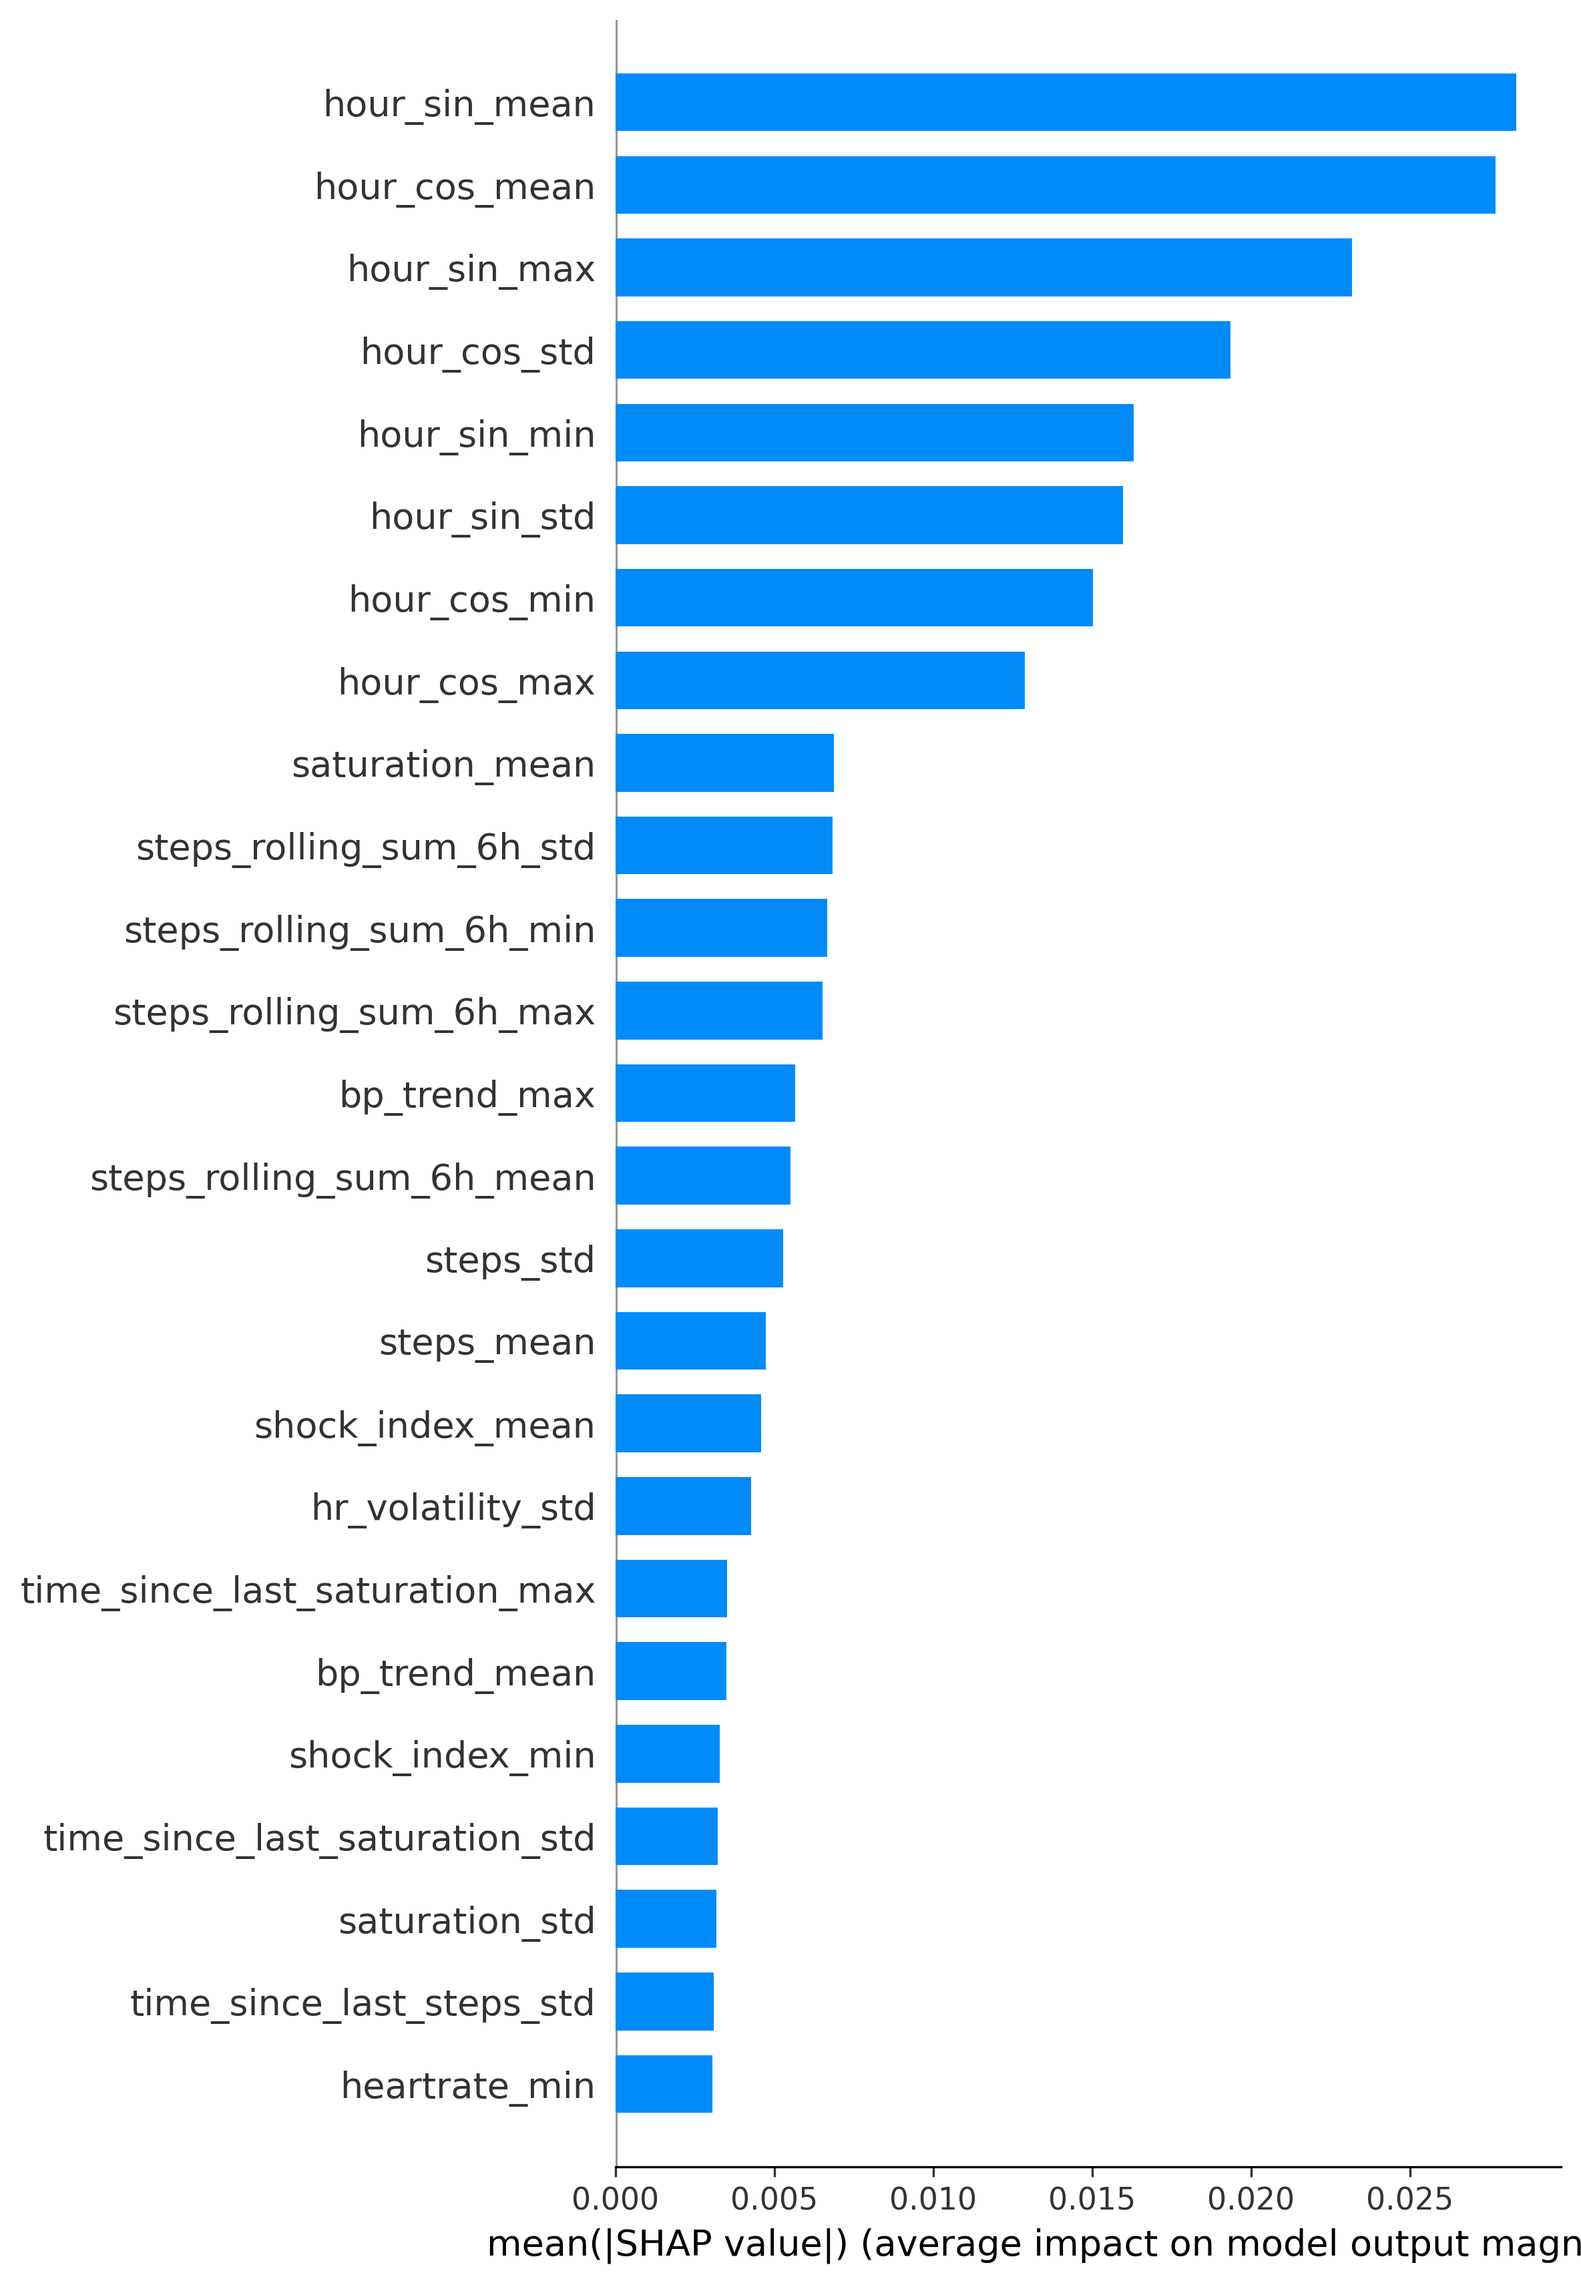
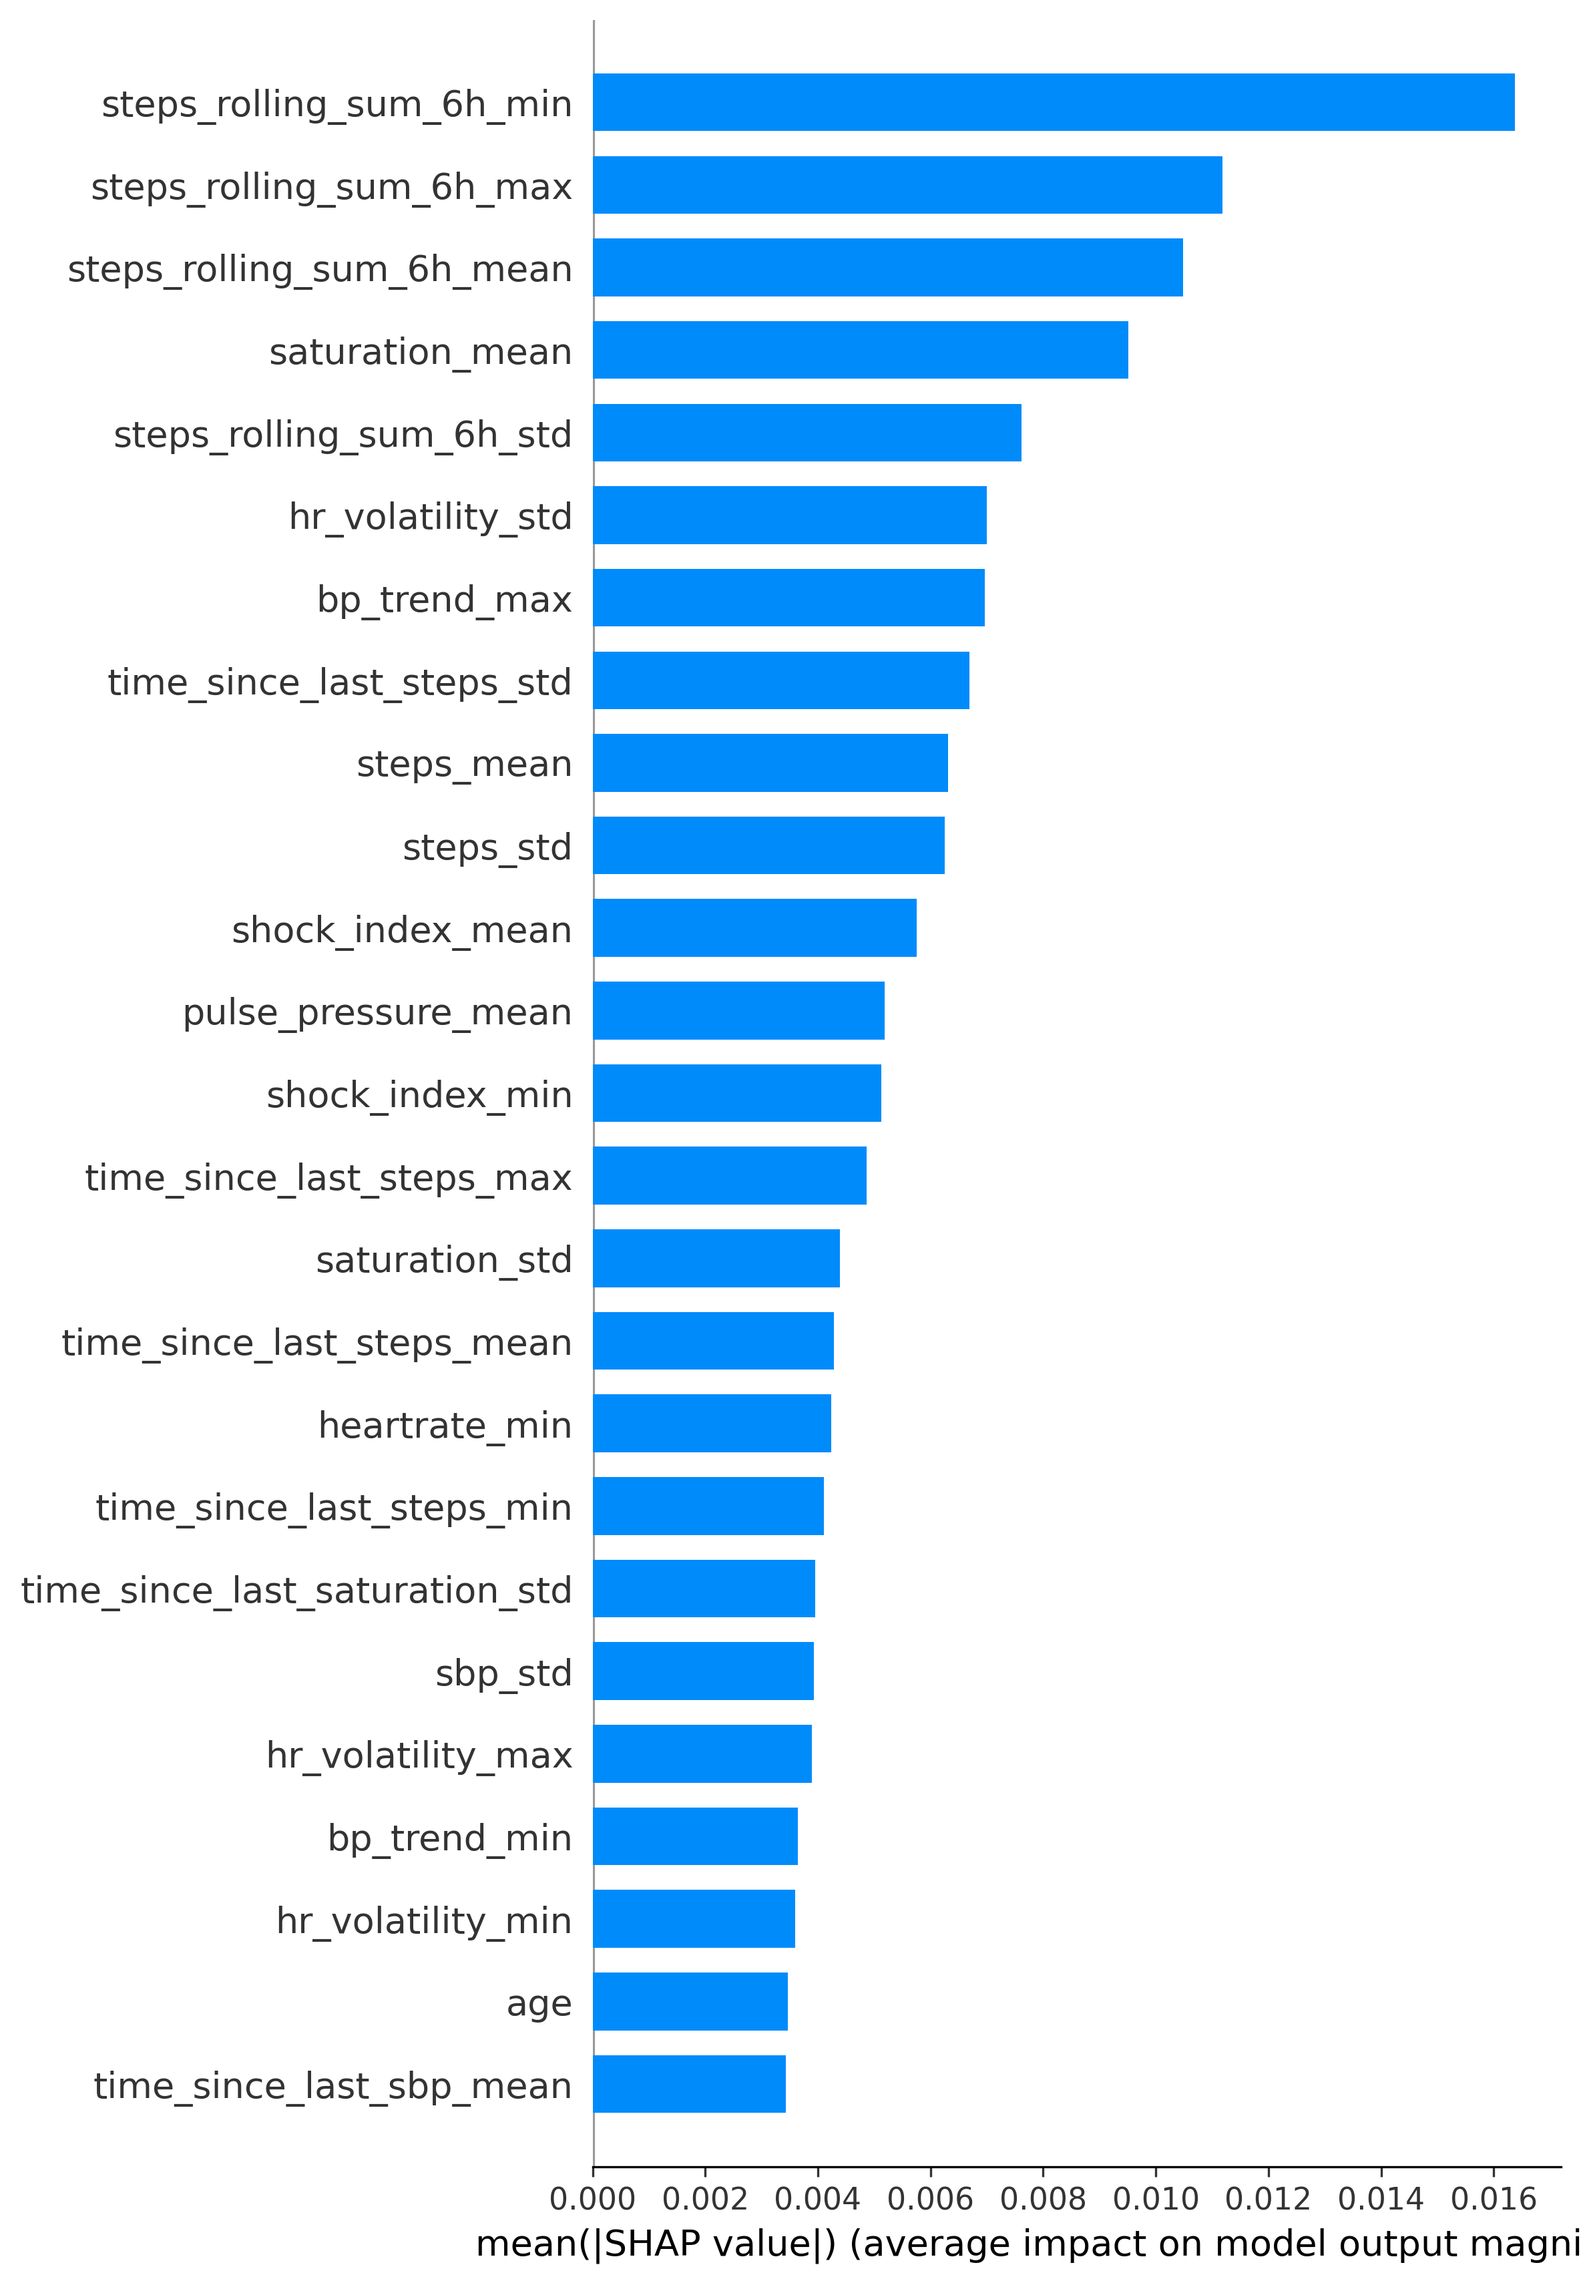
Perform circadian ablation to isolate pure physiological predictive power

diff --git a/src/pipelines/07_run_classical_baselines.py b/src/pipelines/07_run_classical_baselines.py
@@ -48,6 +48,7 @@ RANDOM_SEED = 42
 N_BOOTSTRAPS = int(os.getenv("N_BOOTSTRAPS", "1000"))
 MAX_OCSVM_TRAIN = int(os.getenv("MAX_OCSVM_TRAIN", "10000"))
 MAX_IFOREST_TRAIN = int(os.getenv("MAX_IFOREST_TRAIN", "100000"))
+TEMPORAL_ABLATION_PATTERNS = ("hour", "day_of_week", "is_night", "timestamp")
 
 logging.basicConfig(level=logging.INFO, format="%(asctime)s - %(levelname)s - %(message)s")
 logger = logging.getLogger(__name__)
@@ -90,6 +91,19 @@ def feature_matrix(df: pd.DataFrame) -> tuple[pd.DataFrame, list[str]]:
     for col in X.columns:
         X[col] = pd.to_numeric(X[col], errors="coerce")
     return X, list(X.columns)
+
+
+def drop_temporal_features(X: pd.DataFrame) -> pd.DataFrame:
+    temporal_cols = [
+        col for col in X.columns if any(pattern in col.lower() for pattern in TEMPORAL_ABLATION_PATTERNS)
+    ]
+    if temporal_cols:
+        logger.info(
+            "Circadian ablation dropping %s temporal columns: %s",
+            len(temporal_cols),
+            ", ".join(temporal_cols),
+        )
+    return X.drop(columns=temporal_cols)
 
 
 def balanced_indices(y: np.ndarray, seed: int = RANDOM_SEED) -> np.ndarray:
@@ -467,6 +481,16 @@ def main() -> None:
     X_test, _ = feature_matrix(test_df)
     if supervised_feature_names != feature_names:
         raise ValueError("Supervised and pure-healthy flattened feature columns do not match.")
+    X_train = drop_temporal_features(X_train)
+    X_train_supervised = drop_temporal_features(X_train_supervised)
+    X_val = drop_temporal_features(X_val)
+    X_test = drop_temporal_features(X_test)
+    feature_names = list(X_train.columns)
+    supervised_feature_names = list(X_train_supervised.columns)
+    if supervised_feature_names != feature_names:
+        raise ValueError("Supervised and pure-healthy feature columns do not match after circadian ablation.")
+    if list(X_val.columns) != feature_names or list(X_test.columns) != feature_names:
+        raise ValueError("Validation/test feature columns do not match training columns after circadian ablation.")
     val_bal_idx = balanced_indices(y_val)
 
     metrics_rows: list[dict[str, Any]] = []

diff --git a/src/pipelines/10_analyze_shap_rf.py b/src/pipelines/10_analyze_shap_rf.py
@@ -26,6 +26,7 @@ PROJECT_ROOT = Path(__file__).resolve().parents[2]
 DATA_DIR = PROJECT_ROOT / "data" / "processed" / "anomaly_detection"
 REPORT_DIR = PROJECT_ROOT / "reports"
 RANDOM_SEED = 42
+TEMPORAL_ABLATION_PATTERNS = ("hour", "day_of_week", "is_night", "timestamp")
 
 
 def feature_matrix(df: pd.DataFrame) -> pd.DataFrame:
@@ -36,6 +37,15 @@ def feature_matrix(df: pd.DataFrame) -> pd.DataFrame:
     return X
 
 
+def drop_temporal_features(X: pd.DataFrame) -> pd.DataFrame:
+    temporal_cols = [
+        col for col in X.columns if any(pattern in col.lower() for pattern in TEMPORAL_ABLATION_PATTERNS)
+    ]
+    if temporal_cols:
+        print(f"Circadian ablation dropping {len(temporal_cols)} temporal columns: {', '.join(temporal_cols)}")
+    return X.drop(columns=temporal_cols)
+
+
 def load_supervised_train(data_dir: Path) -> tuple[pd.DataFrame, np.ndarray]:
     X_path = data_dir / "X_train_supervised_flat.parquet"
     y_path = data_dir / "y_train_supervised.npy"
@@ -43,7 +53,7 @@ def load_supervised_train(data_dir: Path) -> tuple[pd.DataFrame, np.ndarray]:
     y = np.load(y_path).astype(np.int8)
     if len(X) != len(y):
         raise ValueError(f"Supervised train length mismatch: X={len(X)}, y={len(y)}")
-    return X, y
+    return drop_temporal_features(X), y
 
 
 def load_test(data_dir: Path) -> tuple[pd.DataFrame, np.ndarray]:
@@ -55,7 +65,7 @@ def load_test(data_dir: Path) -> tuple[pd.DataFrame, np.ndarray]:
     y = np.load(y_path).astype(np.int8)
     if len(X) != len(y):
         raise ValueError(f"Test length mismatch: X={len(X)}, y={len(y)}")
-    return X, y
+    return drop_temporal_features(X), y
 
 
 def train_random_forest(X_train: pd.DataFrame, y_train: np.ndarray) -> Pipeline:
@@ -102,7 +112,7 @@ def calculate_operating_point(y_true: np.ndarray, scores: np.ndarray) -> dict[st
 
 
 def write_calibration_report(metrics: dict[str, float | int], output_path: Path) -> None:
-    text = f"""Random Forest Clinical Calibration
+    text = f"""Random Forest Clinical Calibration - Circadian Ablation
 
 Operating threshold: {metrics["threshold"]:.6f}
 Threshold criterion: Youden's J statistic

diff --git a/src/pipelines/08_benchmark_report.py b/src/pipelines/08_benchmark_report.py
@@ -239,6 +239,13 @@ def write_shap_or_importance(args: argparse.Namespace) -> None:
         X_raw = X_raw.sample(args.shap_sample_size, random_state=42)
     imputer = model.named_steps["imputer"]
     xgb_model = model.named_steps["model"]
+    fitted_features = getattr(imputer, "feature_names_in_", None)
+    if fitted_features is not None:
+        missing = [feature for feature in fitted_features if feature not in X_raw.columns]
+        if missing:
+            logger.warning("Skipping SHAP: missing fitted features in X_test_flat.parquet: %s", missing)
+            return
+        X_raw = X_raw.loc[:, list(fitted_features)]
     X = imputer.transform(X_raw)
 
     try:
